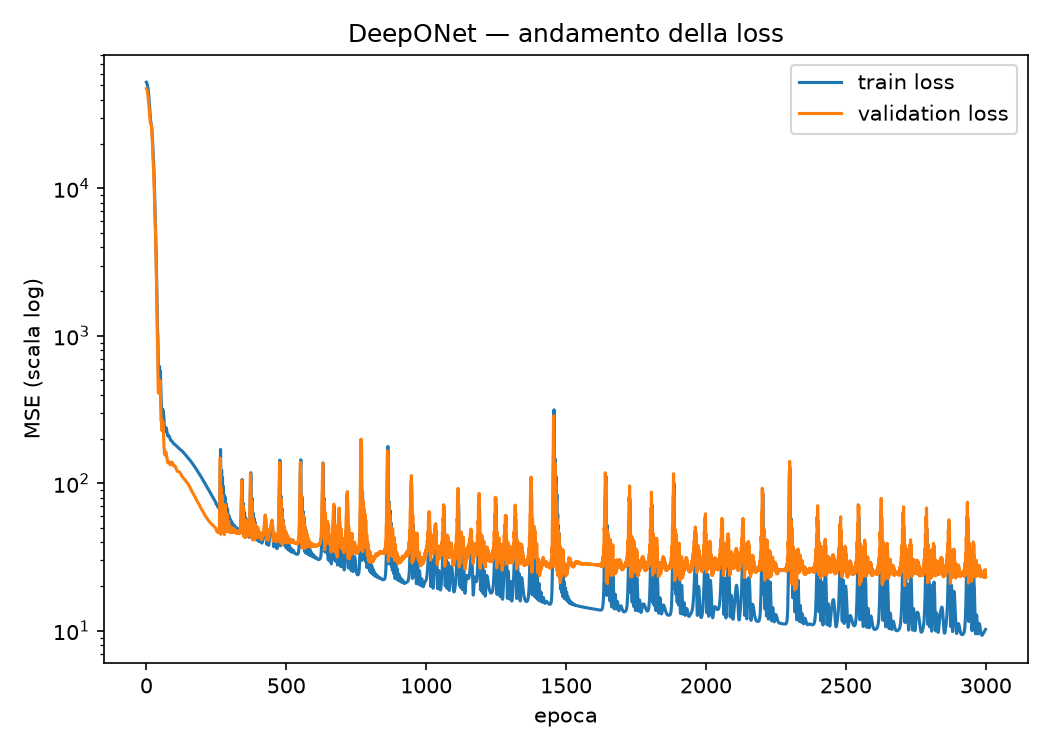
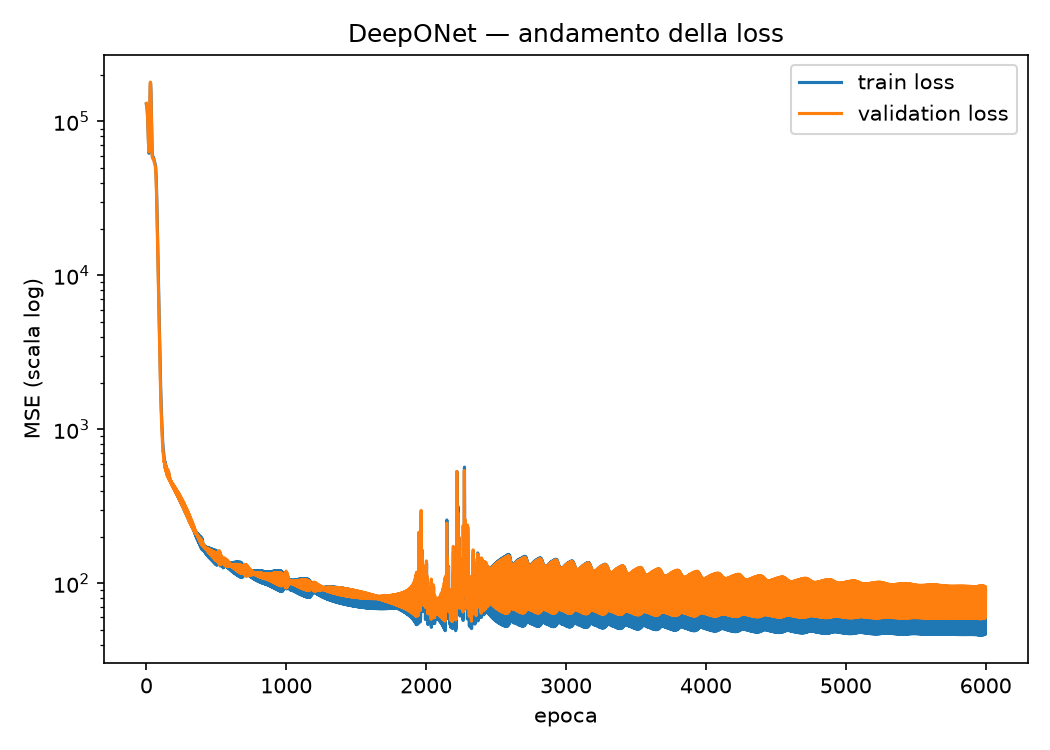
feat: update dataset generation and training parameters for improved model performance

diff --git a/main_deeponet.py b/main_deeponet.py
@@ -13,15 +13,15 @@ from src.utils import config
 N_SENSORS = 20
 
 data = build_deeponet_dataset(
-    alpha_min=-1.0, alpha_max=3.0, n_samples=3000, A=1.0,   # range ampliato, include 0
+    alpha_min=-3, alpha_max=3.0, n_samples=5000, A=1.0,   # range ampliato, include 0
     k_min=config.K_MIN, k_max=config.K_MAX, n_sensors=N_SENSORS,
     k_c_min=0.2, k_c_max=0.9, noise_std=0.01
 )
 
-splits = split_deeponet_dataset(data, train_frac=0.6, val_frac=0.2, test_frac=0.2)
+splits = split_deeponet_dataset(data, train_frac=0.7, val_frac=0.2, test_frac=0.1)
 
 model = DeepONet(n_sensors=N_SENSORS, latent_dim=64, hidden=128)
-model, history = train_deeponet(model, splits, epochs=3000, lr=1e-3)
+model, history = train_deeponet(model, splits, epochs=6000, lr=1e-3)
 
 plot_deeponet_loss(history, save_path="outputs/deeponet_loss.png", show=False)
 plot_flux_prediction_test(model, splits["test"], save_path="outputs/deeponet_test.png", show=False)
@@ -43,15 +43,15 @@ profile_example = test_data["profiles"][0]  # un singolo profilo dal test set
 kernel = compute_sensitivity_kernel(model, profile_example, k_c_value=k_c_fixed)
 kernel_smoothed = smooth_kernel(kernel, window=5)
 
-plot_sensitivity_kernel(
-    torch.tensor(kernel_smoothed), data["sensor_grid"], k_c_value=k_c_fixed, k_min=0.1,
-    save_path="outputs/sensitivity_kernel.png", show=False
-)
+#plot_sensitivity_kernel(
+#    torch.tensor(kernel_smoothed), data["sensor_grid"], k_c_value=k_c_fixed, k_min=0.1,
+#    save_path="outputs/sensitivity_kernel.png", show=False
+#)
 
 kz_lines = {"KZ energy": -1.0, "KZ action": -1.5}  # sostituisci con i valori teorici veri del tuo problema
 
 plot_flux_vs_alpha(
-    model, alphas=np.linspace(-1.0, 1.5, 100), A=1.0,
+    model, alphas=np.linspace(-1.5, 1.5, 100), A=1.0,
     k_min=config.K_MIN, k_max=config.K_MAX, sensor_grid=data["sensor_grid"],
     k_c=0.5, kz_lines={"equipartizione (α=0)": 0.0},
     save_path="outputs/flux_vs_alpha.png", show=False

diff --git a/src/training/train_deeponet.py b/src/training/train_deeponet.py
@@ -3,7 +3,7 @@ import matplotlib.pyplot as plt
 from sklearn.model_selection import train_test_split
 
 
-def split_deeponet_dataset(data, train_frac=0.6, val_frac=0.2, test_frac=0.2, seed=42):
+def split_deeponet_dataset(data, train_frac=0.7, val_frac=0.2, test_frac=0.1, seed=42):
     n = data["profiles"].shape[0]
     idx = torch.arange(n)
 
@@ -22,7 +22,7 @@ def split_deeponet_dataset(data, train_frac=0.6, val_frac=0.2, test_frac=0.2, se
     return {"train": subset(idx_train), "val": subset(idx_val), "test": subset(idx_test)}
 
 
-def train_deeponet(model, splits, epochs=3000, lr=1e-3, device="cpu"):
+def train_deeponet(model, splits, epochs=6000, lr=1e-3, device="cpu"):
     optimizer = torch.optim.Adam(model.parameters(), lr=lr, amsgrad=True)
     loss_fn = torch.nn.MSELoss()
 
@@ -37,8 +37,10 @@ def train_deeponet(model, splits, epochs=3000, lr=1e-3, device="cpu"):
         model.train()
         optimizer.zero_grad()
         F_pred = model(train_data["profiles"], train_data["k_c"])
+
         loss = loss_fn(F_pred, train_data["F"])
         loss.backward()
+        #torch.nn.utils.clip_grad_norm_(model.parameters(), max_norm=1.0)
         optimizer.step()
 
         model.eval()
@@ -49,11 +51,12 @@ def train_deeponet(model, splits, epochs=3000, lr=1e-3, device="cpu"):
         history["train_loss"].append(loss.item())
         history["val_loss"].append(val_loss.item())
 
+
         if val_loss.item() < best_val:
             best_val = val_loss.item()
             best_state = {k: v.clone() for k, v in model.state_dict().items()}
 
-        if epoch % 200 == 0 or epoch == epochs - 1:
+        if epoch % 400 == 0 or epoch == epochs-1:
             print(f"Epoch {epoch:5d} | train_loss: {loss.item():.6e} | val_loss: {val_loss.item():.6e}")
 
     model.load_state_dict(best_state)

diff --git a/src/training/flux_validation_plots.py b/src/training/flux_validation_plots.py
@@ -19,8 +19,11 @@ def plot_flux_vs_alpha(model, alphas, A, k_min, k_max, sensor_grid, k_c, kz_line
     with torch.no_grad():
         F_pred = model(profiles_t, k_c_t).squeeze().numpy()
 
+    F_true = A * (k_c ** (-alphas) - k_min ** (-alphas))  # formula esatta
+
     plt.figure(figsize=(8, 5))
     plt.plot(alphas, F_pred, linewidth=2, label="DeepONet")
+    plt.plot(alphas, F_true, "--", linewidth=2, label="analitica")
     plt.axhline(0, color="black", linewidth=0.8)
 
     if kz_lines:
@@ -30,7 +33,7 @@ def plot_flux_vs_alpha(model, alphas, A, k_min, k_max, sensor_grid, k_c, kz_line
     plt.xlabel(r"pendenza spettrale $\alpha$")
     plt.ylabel(r"flusso $F$")
     plt.yscale("symlog", linthresh=1.0)  # lineare vicino a zero, log altrove
-    plt.title(f"Flusso predetto in funzione della pendenza spettrale ($k_c={k_c}$)")
+    plt.title(f"Flusso: DeepONet vs analitico ($k_c={k_c}$)")
     plt.legend()
     plt.tight_layout()
     if save_path:

diff --git a/src/data/deeponet_dataset.py b/src/data/deeponet_dataset.py
@@ -25,7 +25,7 @@ def compute_true_flux(alphas, A, k_c, k_min):
 def build_deeponet_dataset(alpha_min, alpha_max, n_samples, A, k_min, k_max,
                             n_sensors, k_c_min, k_c_max, noise_std=0.01, seed=42):
     rng = np.random.default_rng(seed)
-    alphas = rng.uniform(alpha_min, alpha_max, size=n_samples)
+    alphas = rng.beta(a=2.0, b=0.7, size=n_samples) * (alpha_max - alpha_min) + alpha_min
     k_cs = rng.beta(a=0.5, b=2.0, size=n_samples) * (k_c_max - k_c_min) + k_c_min
 
     sensor_grid = sample_sensor_grid(k_min, k_max, n_sensors)
